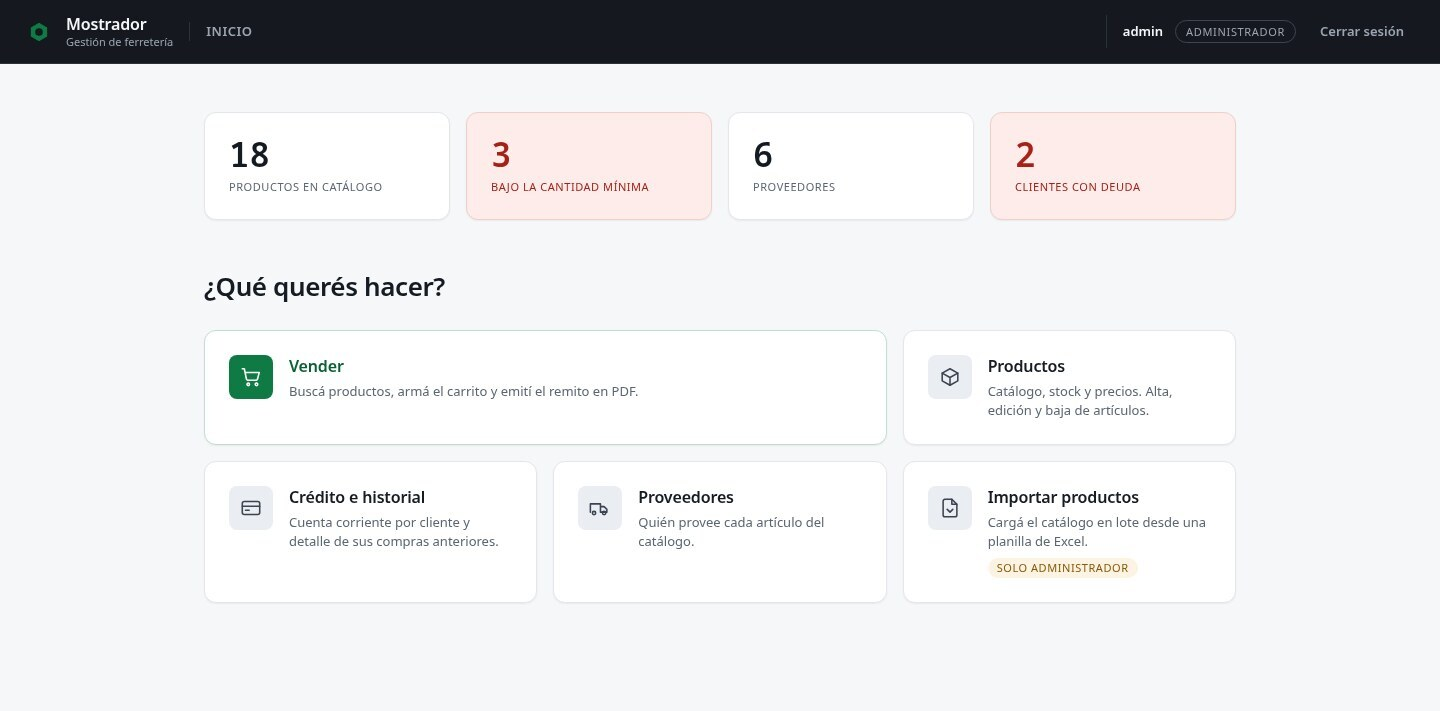
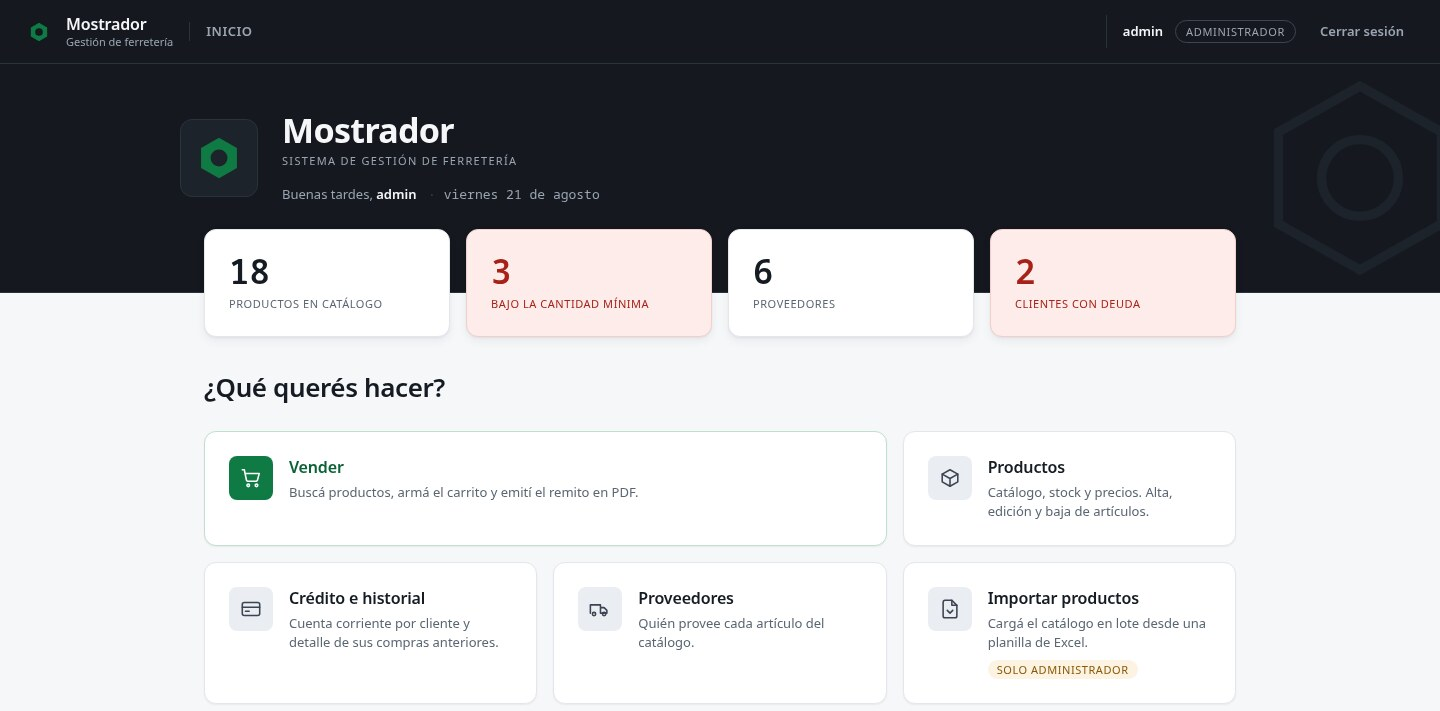
Pasa la UTN a activo y renueva sus capturas y la de Mostrador
El sitio de la UTN esta rehecho y su backend volvio a estar levantado en el
VPS propio, asi que ya no es una preview estatica: las noticias, el registro
y los perfiles funcionan contra la API. Cuatro capturas nuevas en lugar de
tres — se suma la de Noticias, que es la que respalda el scraper propio que
menciona el resumen.

La ficha de Mostrador estrena la captura del panel de inicio, que ahora abre
con una banda de marca.

Claude-Session: https://claude.ai/code/session_01JPtNQJ3w9SWgAoRNX1kV1W

diff --git a/src/data/projects/utn-necochea.ts b/src/data/projects/utn-necochea.ts
@@ -2,6 +2,7 @@ import type { Project } from "./types";
 import capture01 from "../../assets/utn-necochea/utn-necochea-01.jpg";
 import capture02 from "../../assets/utn-necochea/utn-necochea-02.jpg";
 import capture03 from "../../assets/utn-necochea/utn-necochea-03.jpg";
+import capture04 from "../../assets/utn-necochea/utn-necochea-04.jpg";
 
 // Capturas 1910×943 (browser full-screen) re-escaladas a 1440×711.
 const ASPECT = "1910 / 943";
@@ -13,10 +14,11 @@ export const utnNecochea: Project = {
   // sistema (pidió, revisó y recibió), que es lo que le interesa a alguien
   // que mira el portafolio — más que el hecho de que fuera una tesis.
   role: "cliente",
-  // El código es privado (repo del equipo) — solo link a la demo. La demo
-  // es una preview estática hasta volver a levantar los servicios de
-  // backend; cuando eso pase, cambiar status a "activo".
-  status: "preview",
+  // El código es privado (repo del equipo) — solo link al sitio. Ya no es
+  // una preview estática: el backend está levantado en el VPS propio
+  // (utn-api.augustofc.com), así que las noticias, el registro y los
+  // perfiles funcionan de verdad contra la API.
+  status: "activo",
   featured: true,
   summary:
     "Tesis de la Tecnicatura Universitaria en Programación (UTN FR Mar del " +
@@ -31,7 +33,8 @@ export const utnNecochea: Project = {
   },
   media: [
     { type: "image", src: capture01, aspect: ASPECT }, // hero del portal
-    { type: "image", src: capture02, aspect: ASPECT }, // sección institucional
+    { type: "image", src: capture02, aspect: ASPECT }, // noticias (scraper)
     { type: "image", src: capture03, aspect: ASPECT }, // registro + captcha
+    { type: "image", src: capture04, aspect: ASPECT }, // preinscripción + contacto
   ],
 };
